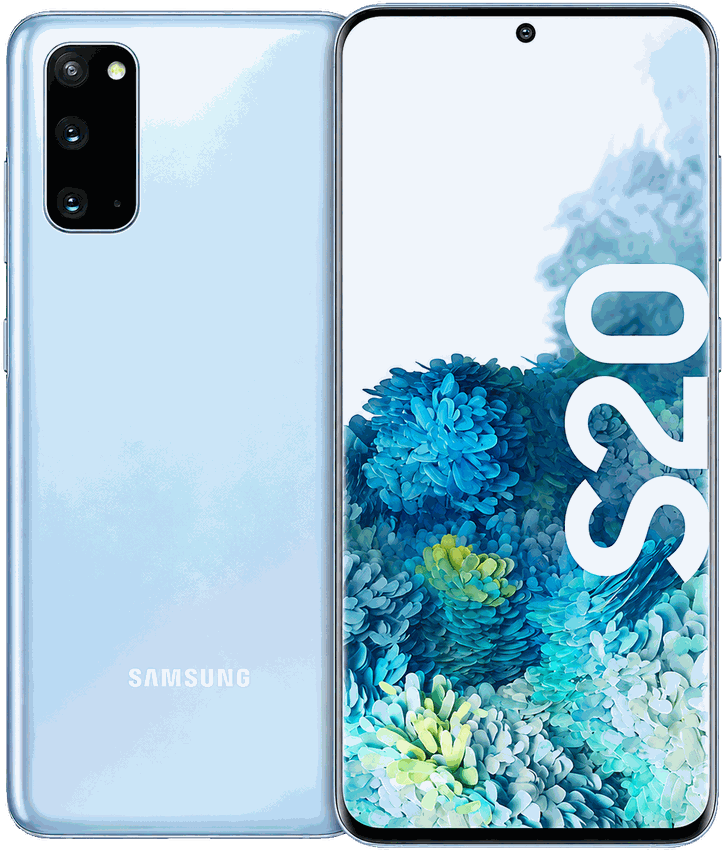
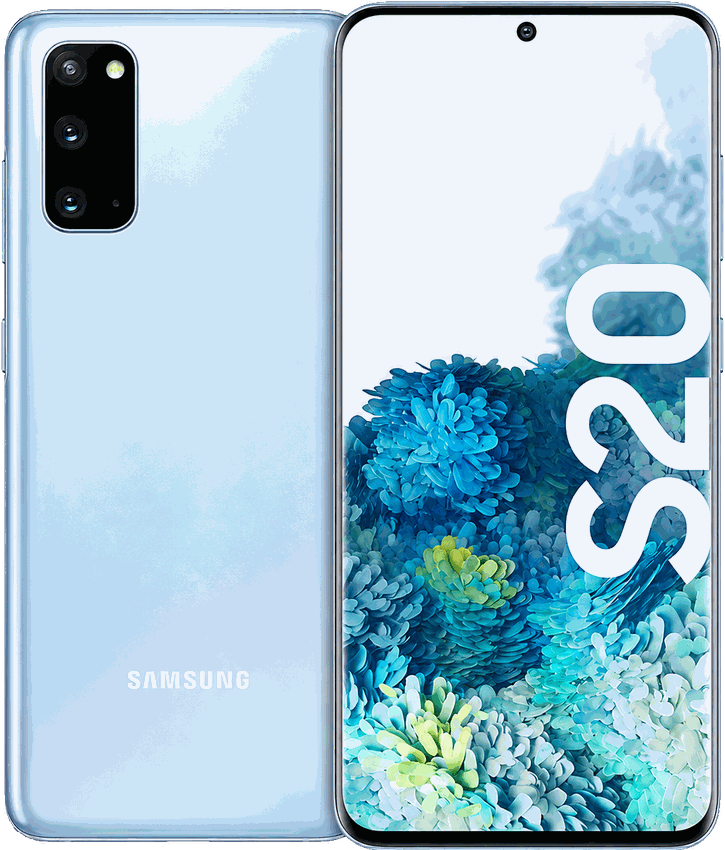
Serve the offer image responsively so 3x phones get a sharp file
Fixing the check exposed a real defect I had missed. Judging the image
against a 2x baseline instead of each profile's own DPR turned the
desktop false alarm into a genuine finding in the other direction: at
725px the product photo was UNDERSIZED for the phones it matters on. An
iPhone 14 Pro at dpr3 wants 909px and a Pro Max 978px, so the visual
centre of the page was slightly soft on exactly Z's device.

The band now ships three WebP widths behind sizes="(max-width: 899px)
328px, 290px":
  580w  49 KB  -> 1x desktop  (was 725w/67 KB, so desktop got lighter)
  725w  67 KB  -> 2x iPad
  1000w 102 KB -> 3x iPhones, now sharp
plus the single 725w PNG fallback. Verified per profile: each picks the
intended file.

Two corrections to the checker itself, both mine:
- the oversize rule compared against the profile's own DPR, so a 1x
  desktop flagged an image that a 3x phone needs. It now judges against
  max(dpr, 2) and also flags undersized, which is what caught this.
- naturalWidth on a srcset image is density-corrected to CSS pixels, so
  it reported 328 rather than the file's real width and every profile
  failed. It now re-loads the chosen file plainly to read true pixels.

The re-cut master is trimmed, not scaled, to the exact aspect the
approved desktop layout was built on, so the page is still 5993px tall
and everything outside the product image is pixel-identical: 0 differing
pixels. Inside the image, mean delta 7.8/255 from the different
[…]

diff --git a/index.html b/index.html
@@ -296,7 +296,11 @@
         <div class="offer__frame">
           <span class="offer__tag">200 uds.</span>
           <picture>
-            <source srcset="assets/img/samsung-s20.webp" type="image/webp">
+            <source type="image/webp"
+                    srcset="assets/img/samsung-s20-580.webp 580w,
+                            assets/img/samsung-s20-725.webp 725w,
+                            assets/img/samsung-s20-1000.webp 1000w"
+                    sizes="(max-width: 899px) 328px, 290px">
             <img class="offer__photo" src="assets/img/samsung-s20.png"
                  width="725" height="850" decoding="async"
                  alt="Samsung Galaxy S20 visto por delante y por detrás.">
